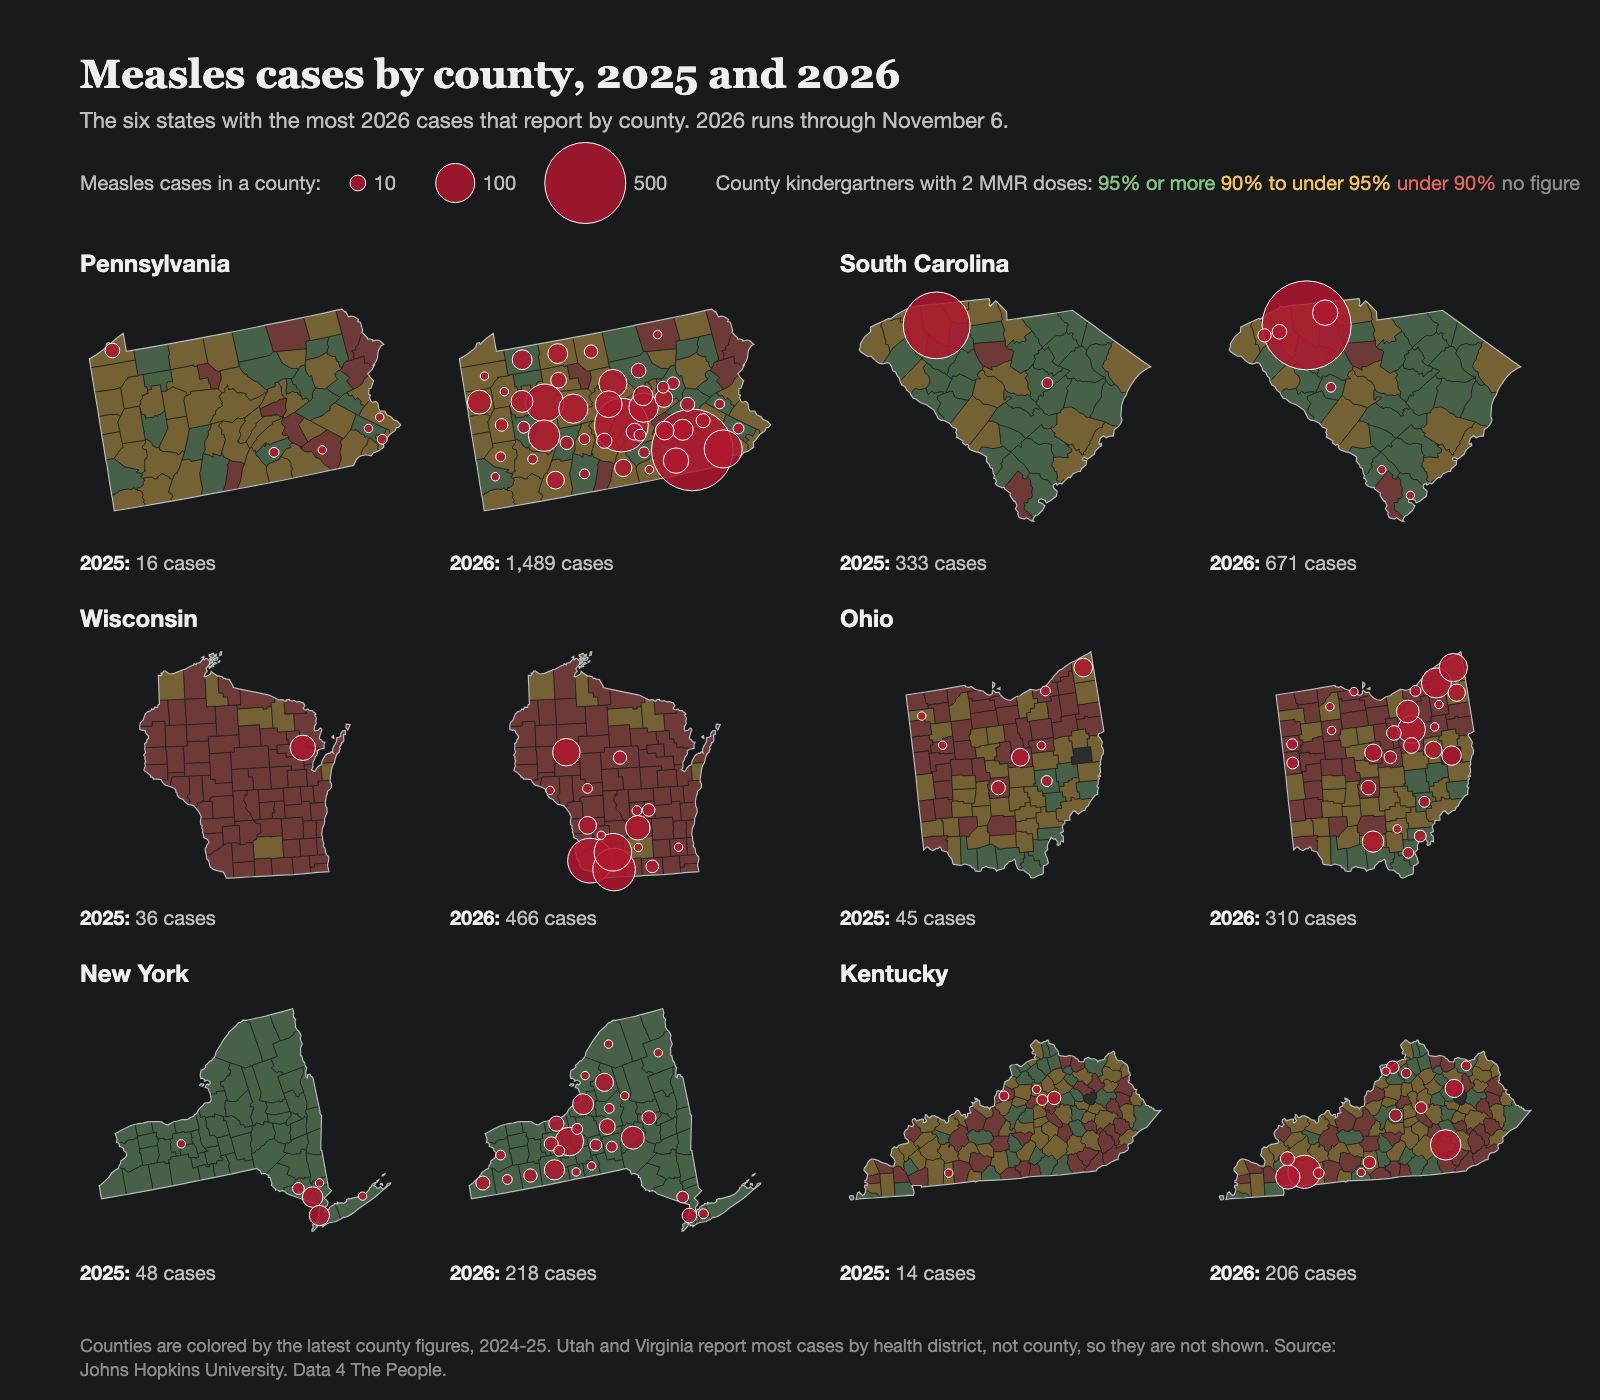
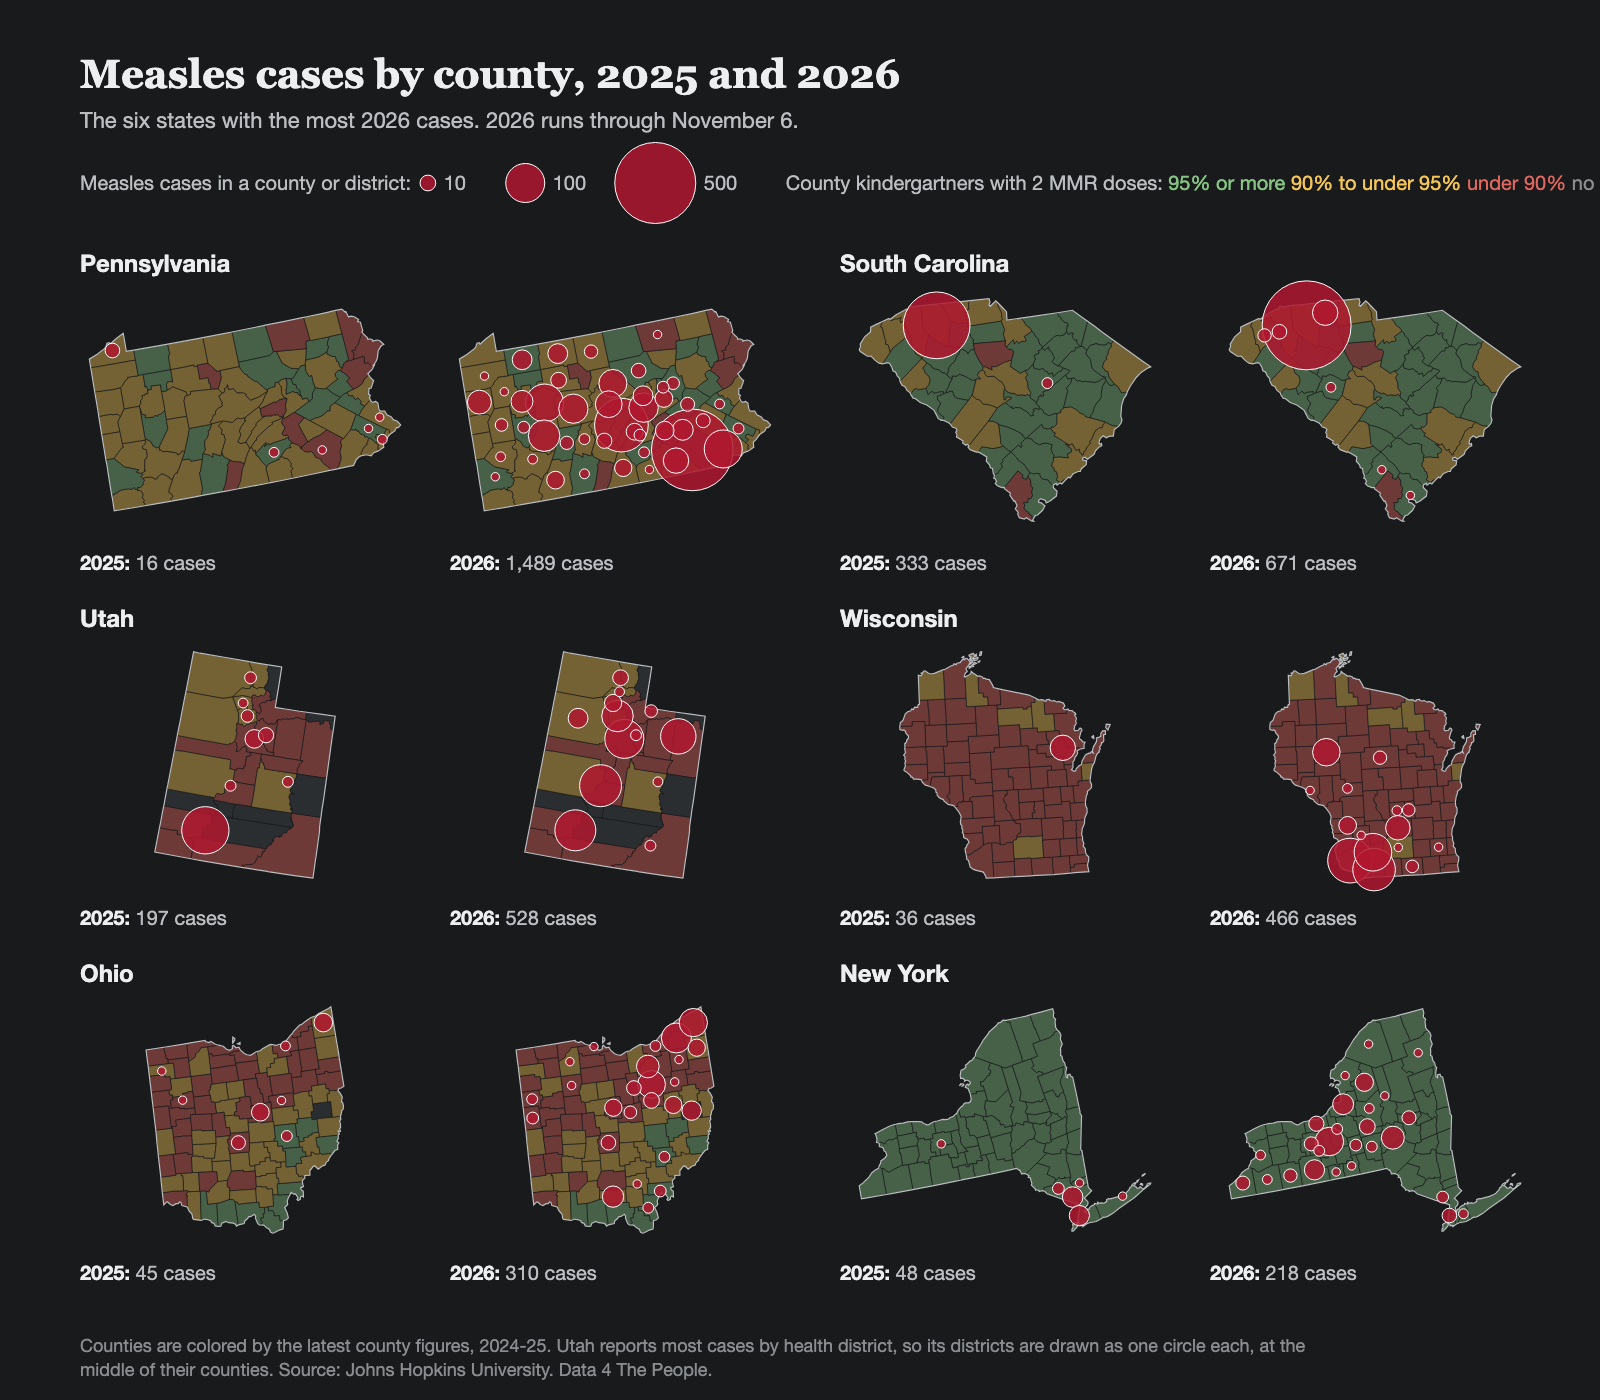
measles-public-data-warning: chart B swaps Kentucky for Utah, with Utah's cases drawn by health district

diff --git a/scripts/14_kinch_charts.py b/scripts/14_kinch_charts.py
@@ -147,10 +147,17 @@ cm["st_name"] = cm.location_name.str.split(", ").str[-1]
 NAME_TO_ST = {s["n"]: k for k, s in STATES.items()}
 cm["st"] = cm.st_name.map(NAME_TO_ST)
 drawn = cm[~cm.fips.str.startswith("000")]
-# a state qualifies when it places at least 90% of its cases on a county (Utah and Virginia report most by health district)
-_tot = cm[cm.year == Y1].groupby("st").cases.sum()
-_drawn = drawn[drawn.year == Y1].groupby("st").cases.sum().reindex(_tot.index).fillna(0)
-SIX = _tot[_drawn / _tot >= 0.9].sort_values(ascending=False).head(6).index.tolist()
+# Utah reports most cases by local health district, each a group of whole counties; a district's cases are drawn as
+# one circle at the middle of its counties' centers (Utah's local health departments)
+DISTRICTS = {
+    "Bear River, Utah": ["49003", "49005", "49033"],                                   # Box Elder, Cache, Rich
+    "Central, Utah": ["49023", "49027", "49031", "49039", "49041", "49055"],           # Juab, Millard, Piute, Sanpete, Sevier, Wayne
+    "Southeast Health District, Utah": ["49007", "49015", "49019"],                    # Carbon, Emery, Grand
+    "Southwest Health District, Utah": ["49001", "49017", "49021", "49025", "49053"],  # Beaver, Garfield, Iron, Kane, Washington
+    "Tricounty, Utah": ["49009", "49013", "49047"],                                    # Daggett, Duchesne, Uintah
+}
+# the six states with the most cases in the last year, counted from every row (county, district or unknown)
+SIX = cm[cm.year == Y1].groupby("st").cases.sum().sort_values(ascending=False).head(6).index.tolist()
 YEAR_A, YEAR_B = Y1 - 1, Y1
 PX_R = lambda n: 2.5 + math.sqrt(n) * 1.7   # circle radius in pixels, the same scale on every map
 
@@ -169,17 +176,21 @@ def county_map(st, year, w, h):
         v = (D["cmmr"].get(f) or {}).get(str(vyear)) if vyear else None
         out += f'<path d="{d}" fill="{county_fill(v)}" stroke="{BG}" stroke-width="{0.6 / scale}"/>'
     out += f'<path d="{sh["d"]}" fill="none" stroke="{INK2}" stroke-width="{1.2 / scale}"/>'
-    rows = drawn[(drawn.st == st) & (drawn.year == year)].sort_values("cases", ascending=False)
+    rows = cm[(cm.st == st) & (cm.year == year)].sort_values("cases", ascending=False)
     for r in rows.itertuples():
-        c = sh["cc"].get(r.fips)
+        if r.location_name in DISTRICTS:   # a district: the middle of its counties' centers
+            pts = [sh["cc"][f] for f in DISTRICTS[r.location_name] if f in sh["cc"]]
+            c = [sum(q[0] for q in pts) / len(pts), sum(q[1] for q in pts) / len(pts)]
+        else:
+            c = sh["cc"].get(r.fips)
         if c:
             out += f'<circle cx="{c[0]}" cy="{c[1]}" r="{PX_R(r.cases) / scale}" fill="{DOT}" fill-opacity=".85" stroke="#ffffff" stroke-width="{1 / scale}"/>'
     return out + "</svg>", int(cm[(cm.st == st) & (cm.year == year)].cases.sum()), vyear
 
 
 def legend_circles(x, y):
-    out = f'<text x="{x}" y="{y}" font-size="20" fill="{INK2}">Measles cases in a county:</text>'
-    cx = x + 270
+    out = f'<text x="{x}" y="{y}" font-size="20" fill="{INK2}">Measles cases in a county or district:</text>'
+    cx = x + 340
     for n in (10, 100, 500):
         r = PX_R(n)
         out += f'<circle cx="{cx + r}" cy="{y - 7}" r="{r}" fill="{DOT}" fill-opacity=".85" stroke="#fff" stroke-width="1"/><text x="{cx + 2 * r + 8}" y="{y}" font-size="20" fill="{INK2}">{n}</text>'
@@ -193,7 +204,7 @@ def chart_six():
     mw, mh = 330, 240
     g = svg_open(W, H)
     g += title(80, 88, f"Measles cases by county, {YEAR_A} and {YEAR_B}",
-               f"The six states with the most {YEAR_B} cases that report by county. {YEAR_B} runs through {CM_TXT}.")
+               f"The six states with the most {YEAR_B} cases. {YEAR_B} runs through {CM_TXT}.")
     g += legend_circles(80, 190)
     for i, st in enumerate(SIX):
         col, row = i % 2, i // 2
@@ -206,7 +217,7 @@ def chart_six():
             mx = x0 + j * (mw + 40)
             g += f'<g transform="translate({mx},{y0 + 40})">{m}</g>'
             g += f'<text x="{mx}" y="{y0 + 40 + mh + 40}" font-size="20" fill="{INK2}"><tspan font-weight="700" fill="{INK}">{yy}:</tspan> {fmt(n)} {"case" if n == 1 else "cases"}</text>'
-    g += foot(80, H - 24, f"Counties are colored by the latest county figures, 2024-25. Utah and Virginia report most cases by health district, not county, so they are not shown. Source: Johns Hopkins University. {CREDIT}", W)
+    g += foot(80, H - 24, f"Counties are colored by the latest county figures, 2024-25. Utah reports most cases by health district, so its districts are drawn as one circle each, at the middle of their counties. Source: Johns Hopkins University. {CREDIT}", W)
     g += "</svg>"
     shoot(g, W, H, IMG / "02-six-states-2025-2026.png")
 
@@ -220,7 +231,7 @@ def gif_six():
         g = svg_open(W, H)
         g += f'<text x="60" y="70" font-size="34" font-weight="700" fill="{INK}" font-family="{SERIF}">Measles cases by county</text>'
         g += f'<text x="{W - 60}" y="76" font-size="64" font-weight="700" fill="{INK}" text-anchor="end">{yy}</text>'
-        g += f'<text x="60" y="108" font-size="20" fill="{INK2}">The six states with the most {YEAR_B} cases that report by county{f", through {CM_TXT}" if yy == YEAR_B else ""}</text>'
+        g += f'<text x="60" y="108" font-size="20" fill="{INK2}">The six states with the most {YEAR_B} cases{f", through {CM_TXT}" if yy == YEAR_B else ""}. Utah’s cases are drawn by health district.</text>'
         for i, st in enumerate(SIX):
             col, row = i % 3, i // 3
             x0, y0 = 60 + col * 380, 150 + row * 380

diff --git a/posts/measles-public-data-warning/POST.md b/posts/measles-public-data-warning/POST.md
@@ -32,9 +32,9 @@ It is tempting to treat this as a story about misinformation alone.  But it is a
 
 In a grim sense, measles is the most legible of infectious diseases.  In a population with no immunity, one infected person passes the virus to [12 to 18 others](https://doi.org/10.1016/S1473-3099(17)30307-9), on average.  Because the virus is so efficient, a community’s vaccination record is close to a forecast.  Each school year in which fewer than 95 percent of entering kindergartners are vaccinated adds another cohort of susceptible children.  Older, better-protected cohorts mask the deficit for a while.  But unvaccinated children cluster in particular schools, congregations and neighborhoods, and within those clusters immunity can sink far below what a statewide average suggests.  When the virus finally arrives, often with a single traveler, it finds the gaps.
 
-![Twelve county maps in pairs, 2025 and 2026, for Pennsylvania, South Carolina, Wisconsin, Ohio, New York and Kentucky. Counties are lightly shaded by the share of kindergartners with two MMR doses. Dark red circles sized by measles cases per county grow sharply from 2025 to 2026: Pennsylvania 16 to 1,489, South Carolina 333 to 671, Wisconsin 36 to 466, Ohio 45 to 310, New York 48 to 218, Kentucky 14 to 206. Data 4 The People, from Johns Hopkins University.](images/02-six-states-2025-2026.png)
+![Twelve county maps in pairs, 2025 and 2026, for Pennsylvania, South Carolina, Utah, Wisconsin, Ohio and New York. Counties are lightly shaded by the share of kindergartners with two MMR doses. Dark red circles sized by measles cases per county grow sharply from 2025 to 2026: Pennsylvania 16 to 1,489, South Carolina 333 to 671, Utah 197 to 528, Wisconsin 36 to 466, Ohio 45 to 310, New York 48 to 218. Data 4 The People, from Johns Hopkins University.](images/02-six-states-2025-2026.png)
 
-*Measles cases by county in the six states with the most 2026 cases that report by county, 2025 and 2026. Counties are shaded by their latest kindergarten MMR rate, 2024-25. Source: Johns Hopkins University; 2026 runs through November 6.*
+*Measles cases by county in the six states with the most 2026 cases, 2025 and 2026. Counties are shaded by their latest kindergarten MMR rate, 2024-25. Utah reports most cases by health district, so each district is one circle. Source: Johns Hopkins University; 2026 runs through November 6.*
 
 By the 2025-26 school year, only 87.2 percent of Utah kindergartners had received their measles, mumps and rubella vaccines, and 12.2 percent held nonmedical exemptions. In Washington County, in Utah's southwest corner, 79.2 percent were vaccinated in 2024-25. Idaho is further along the same path, with 75.2 percent coverage and 17 percent of kindergartners exempted for nonmedical reasons.
 
